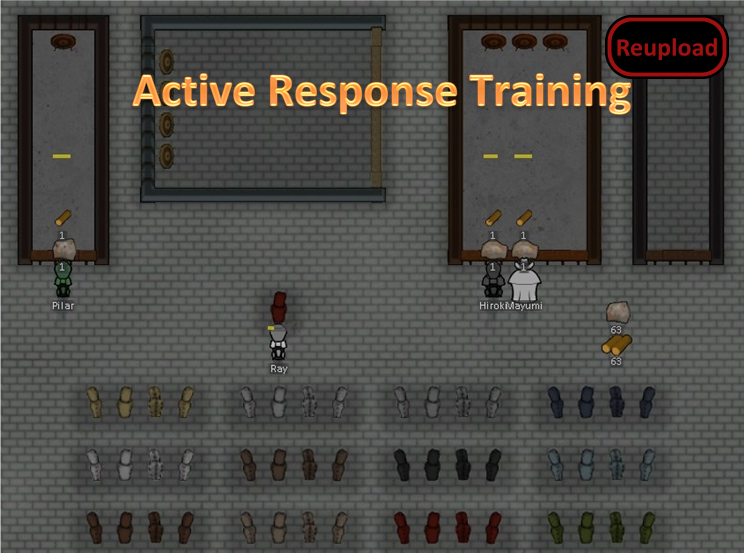
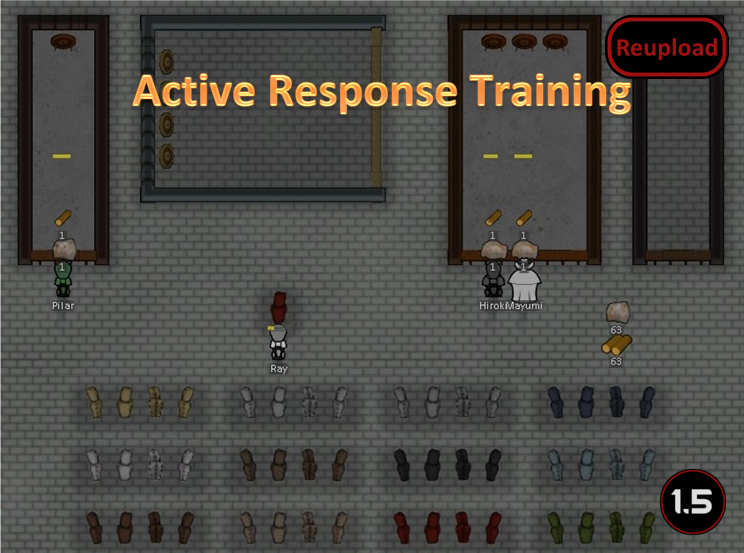
Mod updated for 1.5 and passed autotests

Changed region(s): [[0.8656, 0.83, 0.9892, 0.9837]]

diff --git a/README.md b/README.md
@@ -47,11 +47,13 @@ James76543:	Updater
 
 -  See if the the error persists if you just have this mod and its requirements active.
 -  If not, try adding your other mods until it happens again.
--  Post your error-log using https://steamcommunity.com/workshop/filedetails/?id=818773962]HugsLib and command Ctrl+F12
+-  Post your error-log using https://steamcommunity.com/workshop/filedetails/?id=818773962]HugsLib or the standalone https://steamcommunity.com/sharedfiles/filedetails/?id=2873415404]Uploader and command Ctrl+F12
 -  For best support, please use the Discord-channel for error-reporting.
 -  Do not report errors by making a discussion-thread, I get no notification of that.
 -  If you have the solution for a problem, please post it to the GitHub repository.
+-  Use https://github.com/RimSort/RimSort/releases/latest]RimSort to sort your mods
 
 
 
+https://steamcommunity.com/sharedfiles/filedetails/changelog/2570370139]![Image](https://img.shields.io/github/v/release/emipa606/ActiveResponseTraining?label=latest%20version&style=plastic&color=9f1111&labelColor=black)
 
